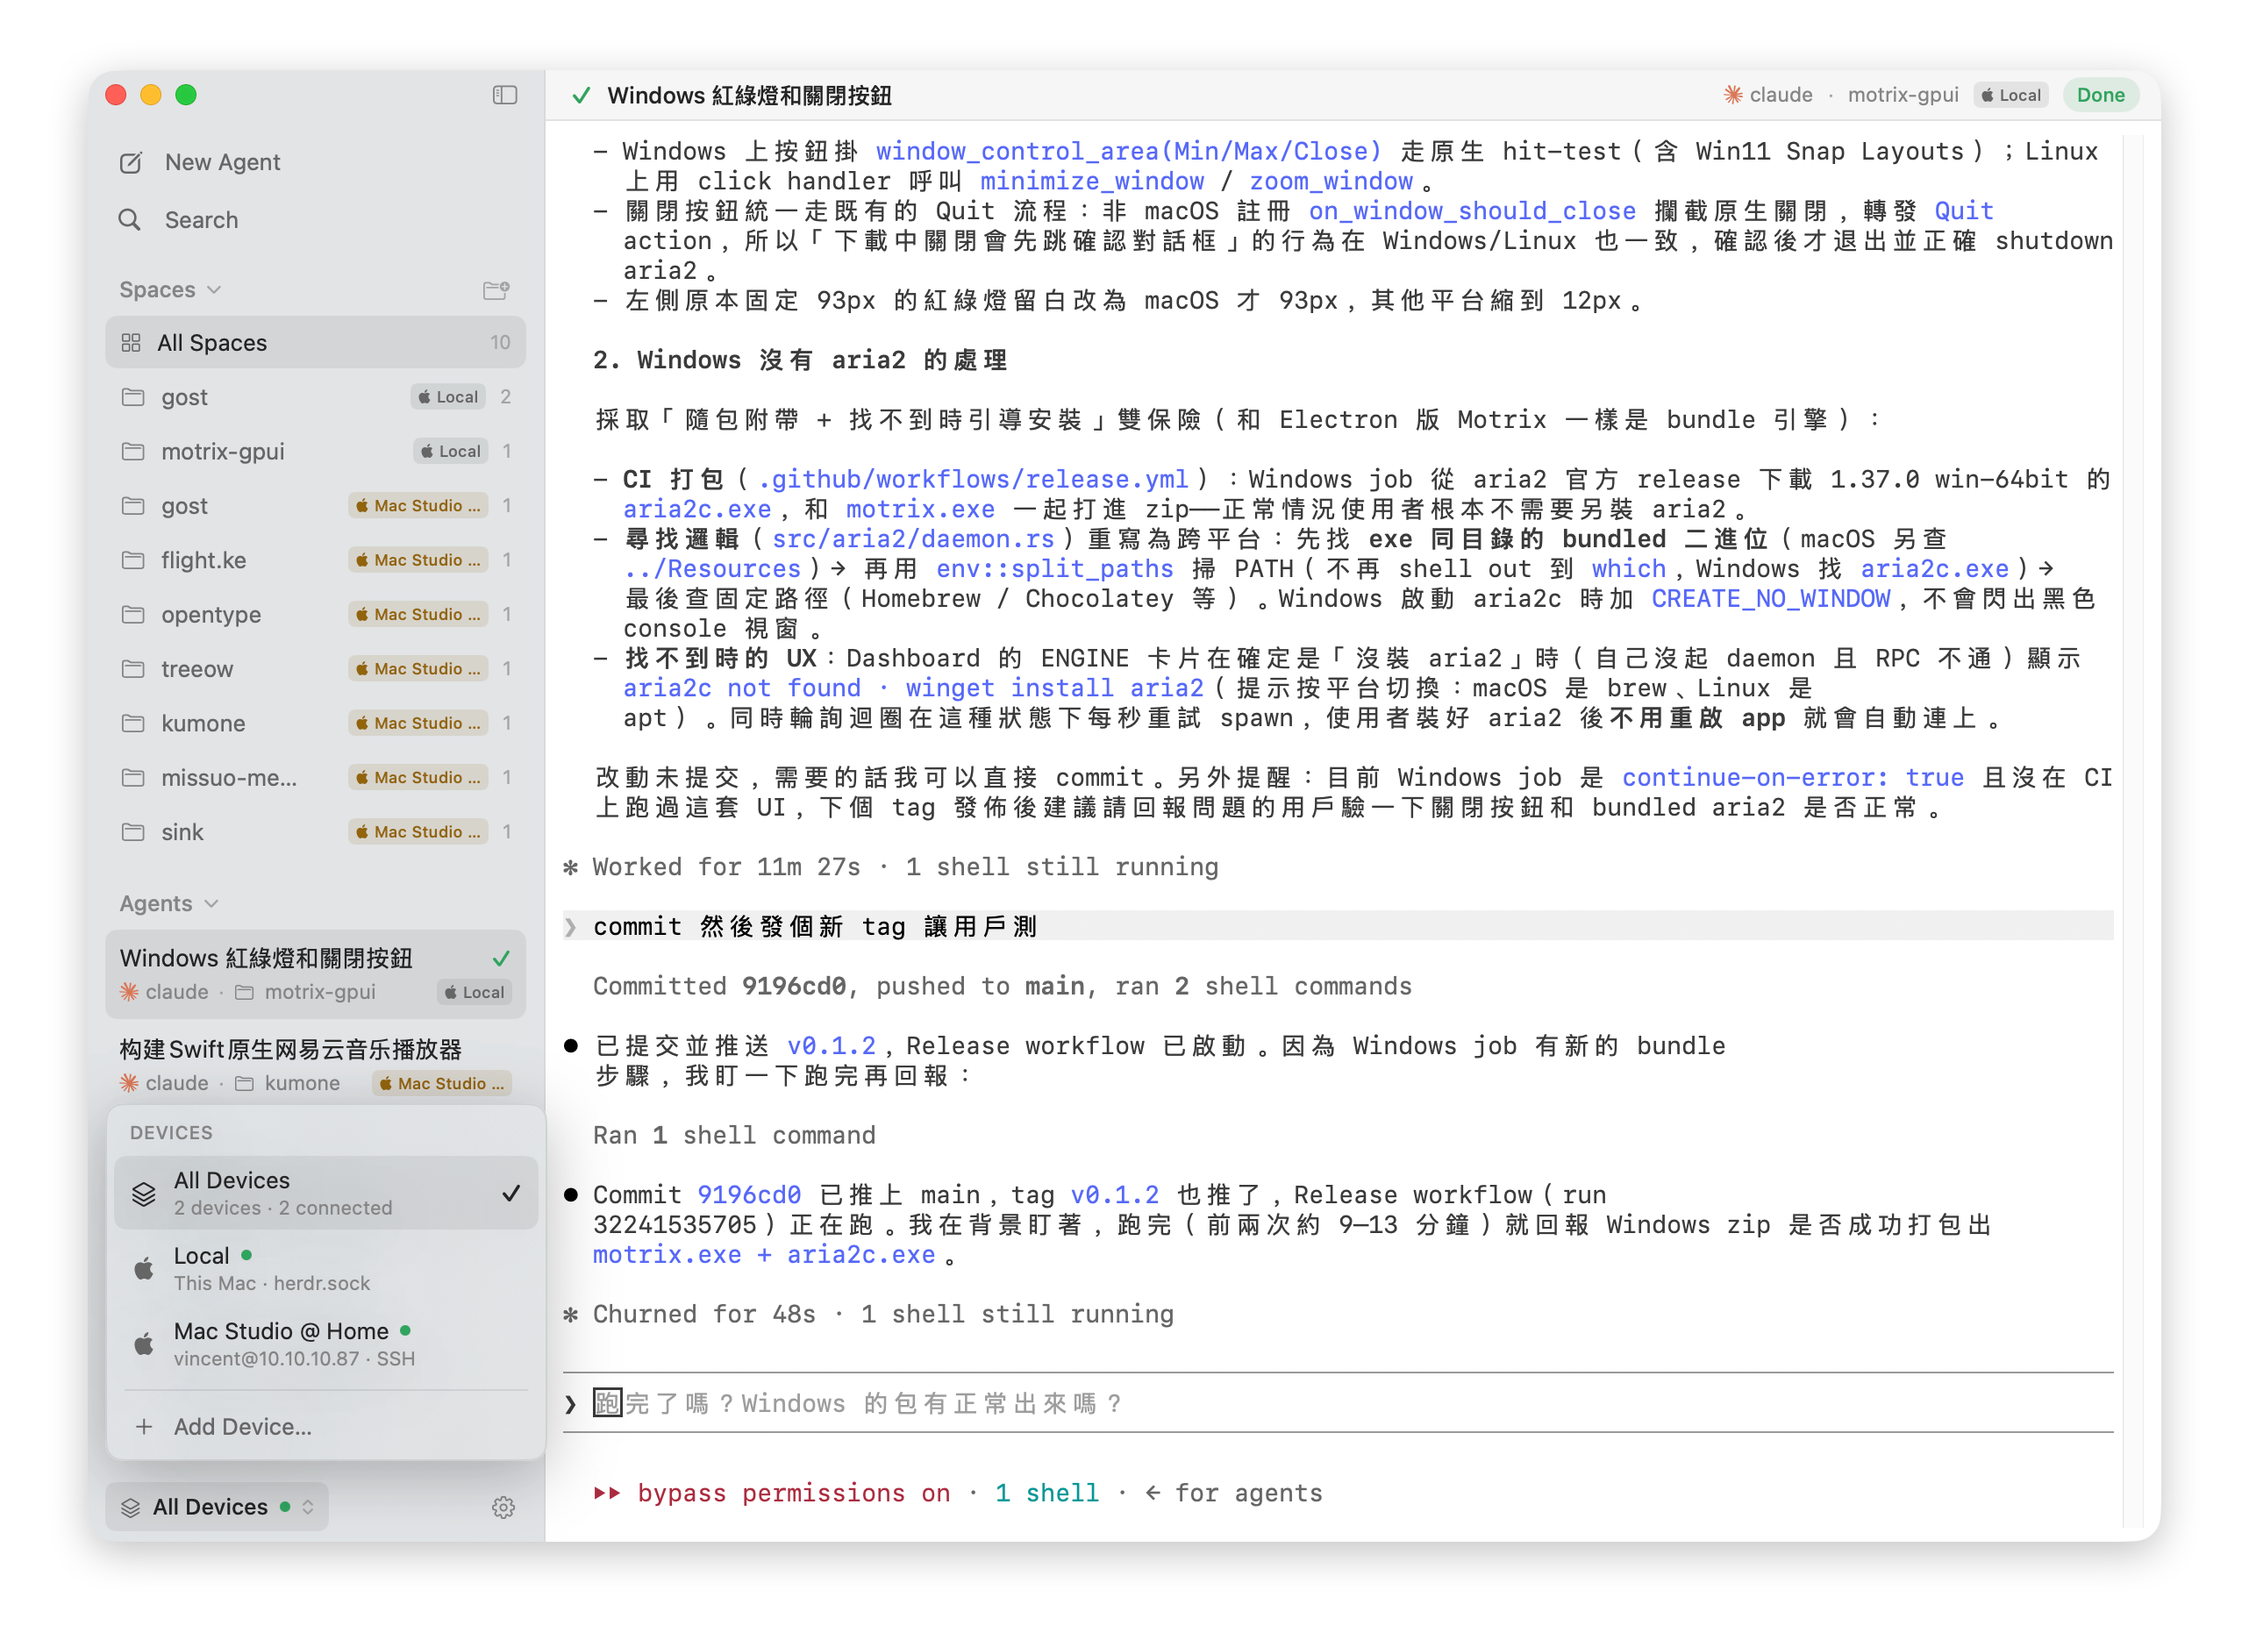
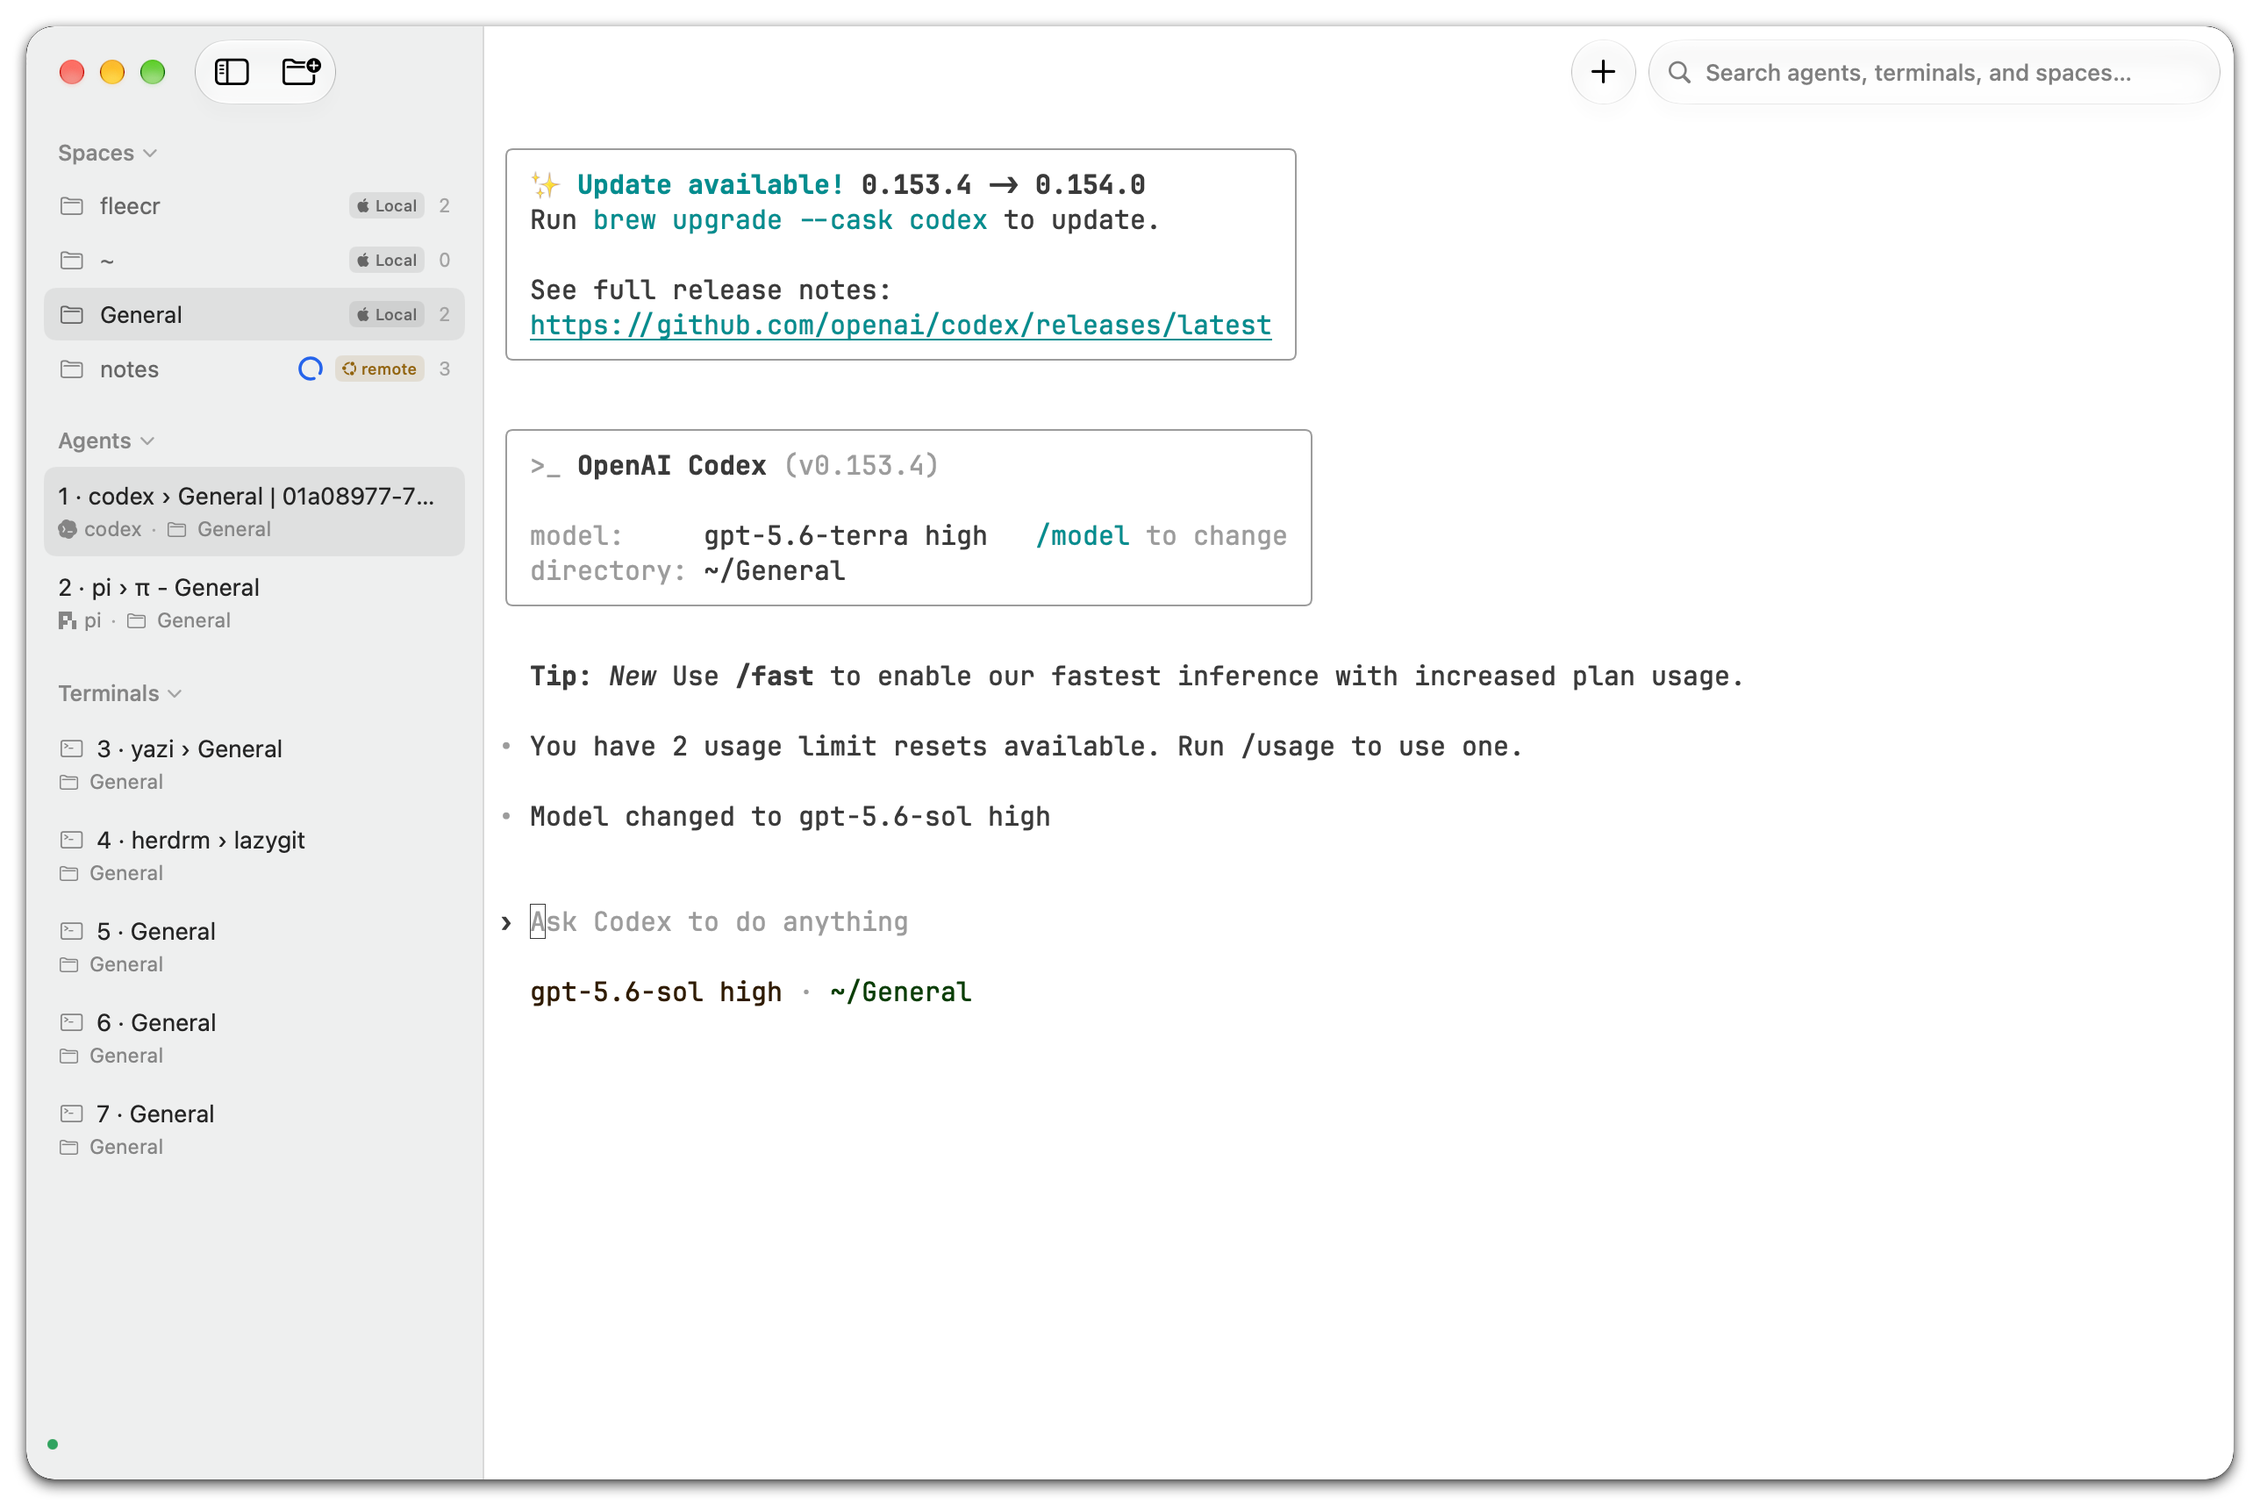
Update README with bilingual documentation and refresh assets
- Add Chinese README (README_zh.md)
- Update English README with feature highlights and modern badges
- Refresh screenshot and remove legacy banner images

Changed region(s): [[0.0, 0.0308, 0.9984, 1.0], [0.7488, 0.0308, 0.9984, 0.0923], [0.0, 0.0308, 0.156, 0.0616]]

diff --git a/README.md b/README.md
@@ -1,24 +1,69 @@
-# fleecr
+<p align="center">
+  <img src="Resources/AppIcon/fleecr-icon-1024.png" width="140" alt="fleecr logo" />
+</p>
+
+<h1 align="center">fleecr</h1>
 
 <p align="center">
-  <img src="Resources/AppIcon/fleecr-icon-1024.png" width="180" alt="fleecr logo" />
+  A native macOS client for <a href="https://herdr.dev/">herdr</a>, bringing your AI coding agents and live terminals together in one simple interface.
 </p>
 
 <p align="center">
-  A native macOS client for <a href="https://herdr.dev/">herdr</a>, bringing your AI coding
-  agents and live terminals together in one simple interface.
+  <a href="https://github.com/voidyuu/herdrm/releases/latest"><img src="https://img.shields.io/github/v/release/voidyuu/herdrm?color=blue" alt="Latest Release" /></a>
+  <img src="https://img.shields.io/badge/macOS-14.0%2B-007AFF?logo=apple&logoColor=white" alt="macOS 14.0+" />
+  <img src="https://img.shields.io/badge/terminal-libghostty-FF6B6B" alt="libghostty" />
+  <a href="LICENSE"><img src="https://img.shields.io/badge/license-MIT-green" alt="License: MIT" /></a>
 </p>
 
-fleecr helps you view and manage coding-agent sessions across your local machine and remote devices. It is built for a fast, native macOS experience and connects to the real PTY behind each agent.
+<p align="center">
+  <a href="README.md">English</a> · <a href="README_zh.md">简体中文</a>
+</p>
 
-## Thanks
+---
 
-This project would not be possible without:
+<p align="center">
+  <img src=".github/assets/screenshot.png" alt="fleecr preview" width="800" />
+</p>
+
+## ✨ Highlights
+
+- **⚡ 100% Native & Fast** — Built with SwiftUI and AppKit. Zero Electron, instant launch, and minimal memory footprint.
+- **💻 Powered by [libghostty](https://github.com/ghostty-org/ghostty)** — High-performance terminal emulation with real PTY attach, native text selection, Nerd Fonts, and 20+ built-in color themes.
+- **🤖 Universal Agent Hub** — First-class support for Claude Code, Codex, Cursor, Gemini, Grok, OpenCode, pi, Kimi, and custom CLI agents.
+- **🌐 Multi-Device Management** — Seamlessly manage local and remote machines over SSH (keys, passwords, or Tailscale) in a unified sidebar with auto-reconnect.
+- **📁 Smart Attachments & File Manager** — Drag and paste (⌘V) images/files directly into agents, plus a built-in two-pane remote file browser.
+- **⌨ Keyboard-Driven** — Global ⌘K quick search, split panes (⌘D / ⇧⌘D), tab cycling (⌃⇥ / ⌃⇧⇥), and ambient notification alerts.
+
+## 📦 Installation
+
+**Homebrew**
+```sh
+brew install owo-network/brew/fleecr
+```
+
+**Manual**  
+Download the latest universal binary from [Releases](https://github.com/voidyuu/herdrm/releases) and drag `Fleecr.app` into `/Applications`. Auto-updates are powered by Sparkle.
+
+## 📋 Requirements
+
+- macOS 14.0+ (Sonoma or later)
+- [herdr](https://herdr.dev/) (fleecr automatically starts the local daemon if not running)
+
+## 🔨 Build from Source
+
+```sh
+brew install xcodegen
+make build   # Build Fleecr.app
+make run     # Launch app
+```
+
+## 🙏 Thanks
 
 - [missuo/herdrm](https://github.com/missuo/herdrm) — the project this work is based on.
 - [herdr](https://herdr.dev/) — the backend foundation and runtime for agents, PTYs, and sessions.
+- [libghostty](https://github.com/ghostty-org/ghostty) — fast, native terminal emulation.
 - [s1dashu/ip-as-logo-skill](https://github.com/s1dashu/ip-as-logo-skill) — logo design.
 
-Thank you to everyone who builds, contributes to, and supports these projects.
+## 📄 License
 
 Licensed under the [MIT License](LICENSE).

diff --git a/README_zh.md b/README_zh.md
@@ -1,0 +1,69 @@
+<p align="center">
+  <img src="Resources/AppIcon/fleecr-icon-1024.png" width="140" alt="fleecr logo" />
+</p>
+
+<h1 align="center">fleecr</h1>
+
+<p align="center">
+  专为 <a href="https://herdr.dev/">herdr</a> 打造的原生 macOS 控制台，将你的 AI 编程智能体与实时终端整合于一体。
+</p>
+
+<p align="center">
+  <a href="https://github.com/voidyuu/herdrm/releases/latest"><img src="https://img.shields.io/github/v/release/voidyuu/herdrm?color=blue" alt="最新版本" /></a>
+  <img src="https://img.shields.io/badge/macOS-14.0%2B-007AFF?logo=apple&logoColor=white" alt="macOS 14.0+" />
+  <img src="https://img.shields.io/badge/终端核心-libghostty-FF6B6B" alt="libghostty" />
+  <a href="LICENSE"><img src="https://img.shields.io/badge/开源协议-MIT-green" alt="协议: MIT" /></a>
+</p>
+
+<p align="center">
+  <a href="README.md">English</a> · <a href="README_zh.md">简体中文</a>
+</p>
+
+---
+
+<p align="center">
+  <img src=".github/assets/screenshot.png" alt="fleecr 预览" width="800" />
+</p>
+
+## ✨ 特性亮点
+
+- **⚡ 100% 纯原生 & 极速** — 基于 SwiftUI 与 AppKit 打造。零 Electron、瞬时启动、极低内存占用。
+- **💻 基于 [libghostty](https://github.com/ghostty-org/ghostty) 终端引擎** — 硬件加速终端模拟，真实 PTY 直连、原生文本选区、Nerd Fonts 符号支持与 20+ 款精美内置配色主题。
+- **🤖 通用 AI 编程智能体中心** — 开箱即用支持 Claude Code、Codex、Cursor、Gemini、Grok、OpenCode、pi、Kimi 及各类自定义 CLI 智能体。
+- **🌐 多设备统一管理** — 在同一侧边栏中无缝连接本地与远程 SSH 机器（支持密钥、密码与 Tailscale），断线自动静默重连。
+- **📁 智能附件与文件管理** — 支持直接粘贴（⌘V）或拖拽图片/文件至智能体终端，内置双栏远程文件对比与传输。
+- **⌨ 键控流交互** — 全局 ⌘K 快速搜索检索、多向分屏（⌘D / ⇧⌘D）、标签循环（⌃⇥ / ⌃⇧⇥）以及后台状态感知通知。
+
+## 📦 安装指南
+
+**Homebrew**
+```sh
+brew install owo-network/brew/fleecr
+```
+
+**手动下载**  
+从 [Releases](https://github.com/voidyuu/herdrm/releases) 下载最新的通用二进制文件，解压后将 `Fleecr.app` 拖入 `/Applications` 文件夹即可。应用内置基于 Sparkle 的自动更新。
+
+## 📋 运行要求
+
+- macOS 14.0+ (Sonoma 或更高版本)
+- [herdr](https://herdr.dev/)（如果本地未运行，fleecr 会自动尝试启动后台服务）
+
+## 🔨 从源码构建
+
+```sh
+brew install xcodegen
+make build   # 构建 Fleecr.app
+make run     # 运行应用
+```
+
+## 🙏 致谢
+
+- [missuo/herdrm](https://github.com/missuo/herdrm) — 本项目基于的原型项目。
+- [herdr](https://herdr.dev/) — 提供底层 Agent 生命周期、PTY 与会话持久化的核心服务。
+- [libghostty](https://github.com/ghostty-org/ghostty) — 极速的现代终端模拟引擎。
+- [s1dashu/ip-as-logo-skill](https://github.com/s1dashu/ip-as-logo-skill) — 应用图标设计。
+
+## 📄 开源协议
+
+本项目采用 [MIT 许可证](LICENSE) 开源。
